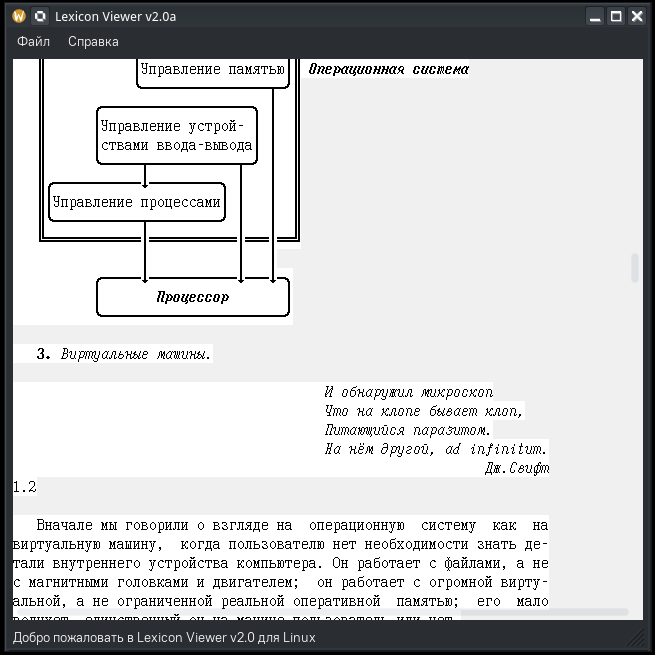
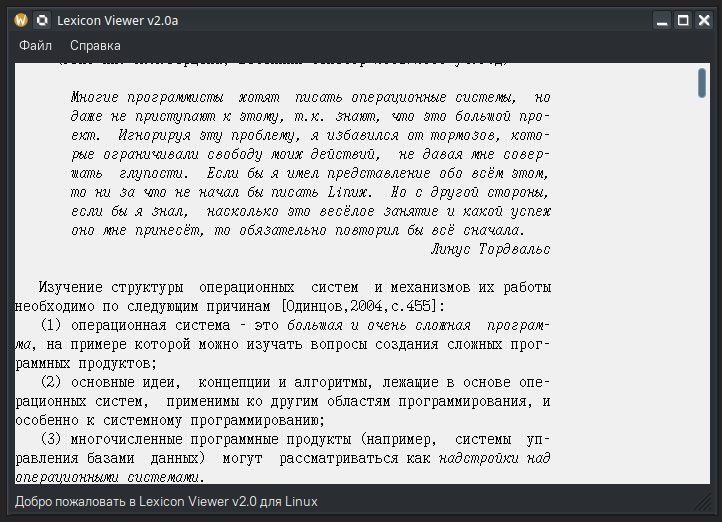
Update

Changed region(s): [[0.0, 0.0, 1.0, 1.0]]

diff --git a/LexiconDocumentParser.cpp b/LexiconDocumentParser.cpp
@@ -1,6 +1,9 @@
 
 #include "LexiconDocumentParser.h"
 
+#define CR  0x0D // \r
+#define LF  0x0A // \n
+
 LexiconDocumentParser::LexiconDocumentParser() {
     m_doc = std::make_shared<LexiconDocument>();
     m_state = ParserText;
@@ -15,7 +18,7 @@ LexiconDocumentParser::~LexiconDocumentParser() {
 }
 
 void LexiconDocumentParser::updatePosition(uint8_t ch) {
-    if (ch == '\n') {
+    if (ch == LF) {
         m_col++;
         m_row = 0;
     } else {
@@ -46,6 +49,7 @@ bool LexiconDocumentParser::parsePadding(uint8_t ch) {
     if (m_padding.IsEmpty() || !m_padding.ToDouble(&factor) || (factor <= 0.0)) {
         wxLogWarning(wxT("Некорректный аргумент команды 'Шаг': '%s'"), m_padding);
         factor = 1.0;
+        // TODO - ну получили ошибку и что дальше? Хорошо бы сменить состояние...
     }
     wxLogDebug(wxT("Команда устанавки межстрочного интервала: factor = %g"), factor);
 // TODO -    m_doc->SetLineSpacing(static_cast<float>(factor));
@@ -53,13 +57,7 @@ bool LexiconDocumentParser::parsePadding(uint8_t ch) {
 
     setState(ParserText);
 
-    // Строку-директиву не превращаем в пустую строку документа.
-    // CR -> поглощаем, LF завершаем отдельно; LF -> поглощаем сразу.
-    if (ch == '\r') {
-        m_swallowLF = true;
-        return true;
-    }
-    if (ch == '\n') {
+    if (ch == LF) {
         return true;
     }
 
@@ -73,7 +71,13 @@ void LexiconDocumentParser::setUnderline(bool underline) {
 
 void LexiconDocumentParser::processByte(uint8_t ch) {
 
-    wxLogDebug(wxT("[%u:%u] Получен код 0x%02X (состояние = 0x%02X)"), m_col, m_row, ch, m_state);
+    // Borland C++ 1991 года игнорирует CR символ
+    if (ch == CR) {
+        return;
+    }
+
+    // Фиксируем отладочное событие
+    wxLogDebug(wxT("Получен симпол: col = %u, row = %u, ch = 0x%02X, state = 0x%02X"), m_col, m_row, ch, m_state);
 
     // Ообновляем позицию в файле
     updatePosition(ch);
@@ -162,21 +166,16 @@ void LexiconDocumentParser::processByte(uint8_t ch) {
         wxLogWarning(wxT("Неподдерживаемая команда - 0x%02X"), ch);
     }
 
-
     if (m_state == ParserText) {
         if (ch == CommandMode) {
             setState(ParserCommand);
             return;
         }
-        if (ch == '\r') {
-            // TODO: игнорируем команду возврата каретки (CR).
-            return;
-        }
-        if (ch == '\n') {
-            // Обрабатываем операцию перевод строки (LF).
+        if (ch == LF) {
             storeText();
             storeLine();
             setFont(0);
+            setUnderline(false);
             return;
         }
         m_buffer.AppendByte(ch);

diff --git a/LexiconDocument.h b/LexiconDocument.h
@@ -29,6 +29,8 @@ enum NodeKind {
 
 class Node {
 public:
+    virtual ~Node() = default;
+public:
     virtual NodeKind kind() const = 0;
     virtual uint32_t GetWidth() const = 0;
     virtual uint32_t GetHeight() const = 0;
